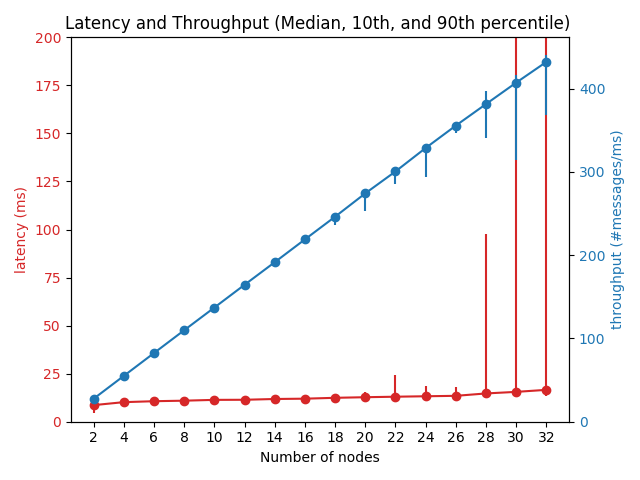
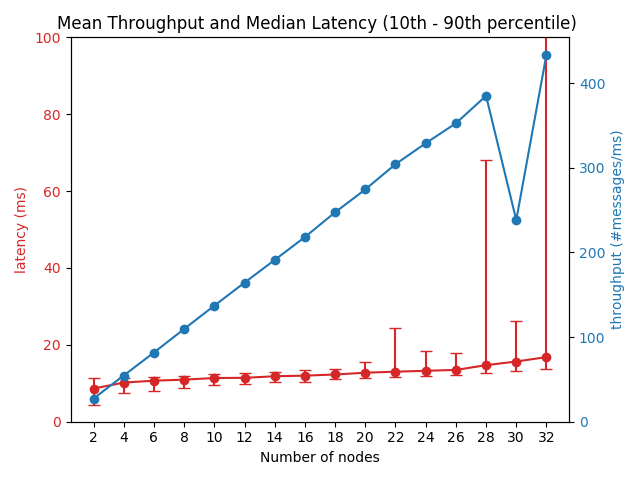
New plots, almost final, they only have a few inconsistencies left

diff --git a/analysis/plot_scaling_latency_throughput.py b/analysis/plot_scaling_latency_throughput.py
@@ -45,8 +45,8 @@ def common_plot_scaleup(dirname, dirnames, xticks, xlabel, output_name):
     ten_latencies_diff = [ l - ml for l, ml in zip(avg_latencies, ten_latencies)]
     ninety_latencies_diff = [ ml - l for l, ml in zip(avg_latencies, ninety_latencies)]
     
-    # avg_throughputs = [np.mean(ths) for ts, ths in throughputs]
-    avg_throughputs = [np.percentile(ths, 50) for ts, ths in throughputs]
+    avg_throughputs = [np.mean(ths) for ts, ths in throughputs]
+    # avg_throughputs = [np.percentile(ths, 50) for ts, ths in throughputs]
     ten_throughputs = [np.percentile(ths, 10) for ts, ths in throughputs]
     ninety_throughputs = [np.percentile(ths, 90) for ts, ths in throughputs]
     ten_throughputs_diff = [ l - ml for l, ml in zip(avg_throughputs, ten_throughputs)]
@@ -63,14 +63,15 @@ def common_plot_scaleup(dirname, dirnames, xticks, xlabel, output_name):
     ax1.set_ylabel('latency (ms)', color=color)
     ## Errorbar alternative
     ax1.errorbar(inds, avg_latencies, [ten_latencies_diff, ninety_latencies_diff],
-                 linestyle='-', marker='o', label='mean latency', color=color)
+                 linestyle='-', marker='o', label='mean latency', color=color,
+                 capthick=1, capsize=4)
     ## All plots alternative
     # ax1.plot(inds, avg_latencies, '-o', label='mean latency', color=color)
     # ax1.plot(inds, ten_latencies, '-o', label='10th percentile latency', color=color)
     # ax1.plot(inds, ninety_latencies, '-o', label='90th percentile latency', color=color)
     ax1.tick_params(axis='y', labelcolor=color)
     # ax1.set_ylim(top=max(ninety_latencies) * 1.1)
-    # ax1.set_ylim(top=200)
+    # ax1.set_ylim(top=100)
     # ax1.set_yscale("log")
     ax1.set_ylim(bottom=0)
     
@@ -80,10 +81,10 @@ def common_plot_scaleup(dirname, dirnames, xticks, xlabel, output_name):
     color = 'tab:blue'
     ax2.set_ylabel('throughput (#messages/ms)', color=color)  # we already handled the x-label with ax1
     ## Errorbar alternative
-    ax2.errorbar(inds, avg_throughputs, [ten_throughputs_diff, ninety_throughputs_diff],
-                 linestyle='-', marker='o', label='mean throughput', color=color)
+    # ax2.errorbar(inds, avg_throughputs, [ten_throughputs_diff, ninety_throughputs_diff],
+    #              linestyle='-', marker='o', label='mean throughput', color=color)
     ## All plots alternative
-    # ax2.plot(inds, avg_throughputs, '-o', label='mean throughput', color=color)
+    ax2.plot(inds, avg_throughputs, '-o', label='mean throughput', color=color)
     # ax2.plot(inds, ten_throughputs, '-o', label='10th percentile throughput', color=color)
     # ax2.plot(inds, ninety_throughputs, '-o', label='90th percentile throughput', color=color)
     ax2.tick_params(axis='y', labelcolor=color)
@@ -92,7 +93,7 @@ def common_plot_scaleup(dirname, dirnames, xticks, xlabel, output_name):
     fig.tight_layout()  # otherwise the right y-label is slightly clipped
     # plt.legend(loc='best')
     plt.xticks(inds, xticks)
-    plt.title('Latency and Throughput (Median, 10th, and 90th percentile) ')
+    plt.title('Mean Throughput and Median Latency (10th - 90th percentile) ')
     plt.tight_layout()
     plt.savefig(os.path.join('plots', output_name + ".png"))
     plt.show()

diff --git a/scenarios/generate_exec_config_ab_example.py b/scenarios/generate_exec_config_ab_example.py
@@ -92,11 +92,14 @@ def run_configurations(rate_multipliers, ratios_ab, heartbeat_rates, a_nodes_num
 ## NOTE: The number of a nodes should be reasonably high. Maybe 4 - 8 nodes?
 ## NOTE: I have to fine tune these numbers to fit the server
 # rate_multipliers = [5, 10, 20, 40, 50]
-rate_multipliers = range(2, 50, 2)
+# rate_multipliers = range(2, 50, 2)
+# rate_multipliers = range(10, 50, 2)
+rate_multipliers = range(10, 35, 2)
 ratios_ab = [1000]
 heartbeat_rates = [10]
 # a_nodes_numbers = [4]
-a_nodes_numbers = [8]
+# a_nodes_numbers = [8]
+a_nodes_numbers = [18]
 optimizers = ["optimizer_greedy"]
 
 # run_configurations(rate_multipliers, ratios_ab, heartbeat_rates, a_nodes_numbers, optimizers)
